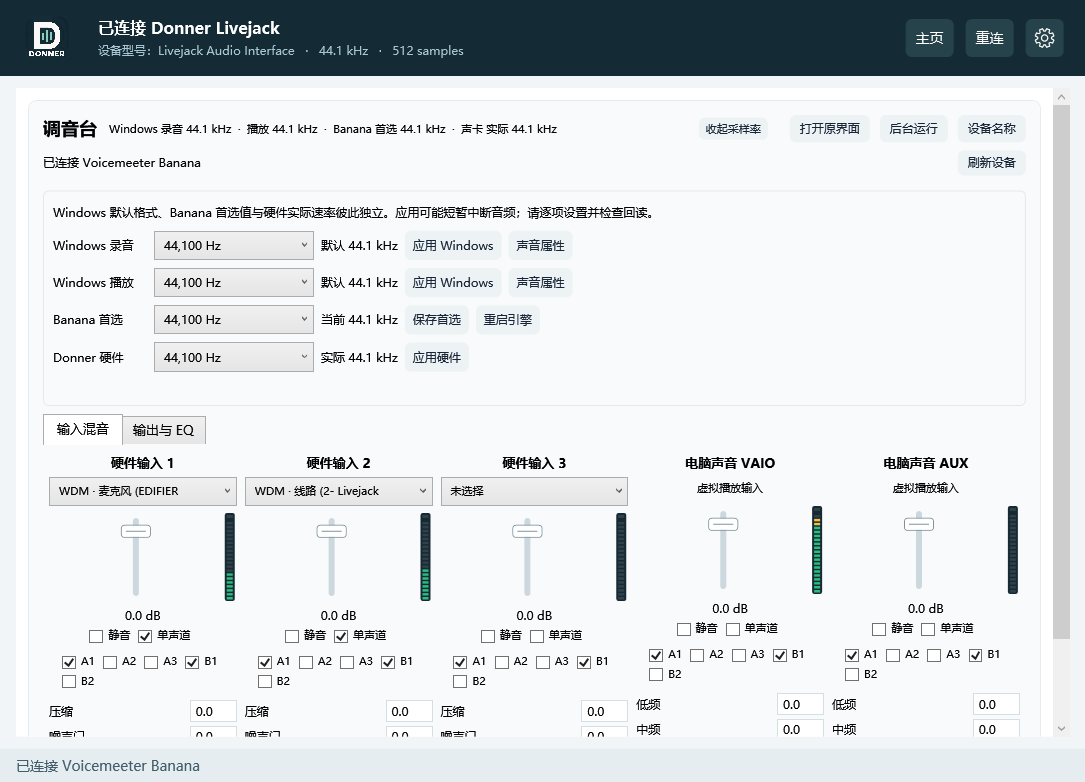
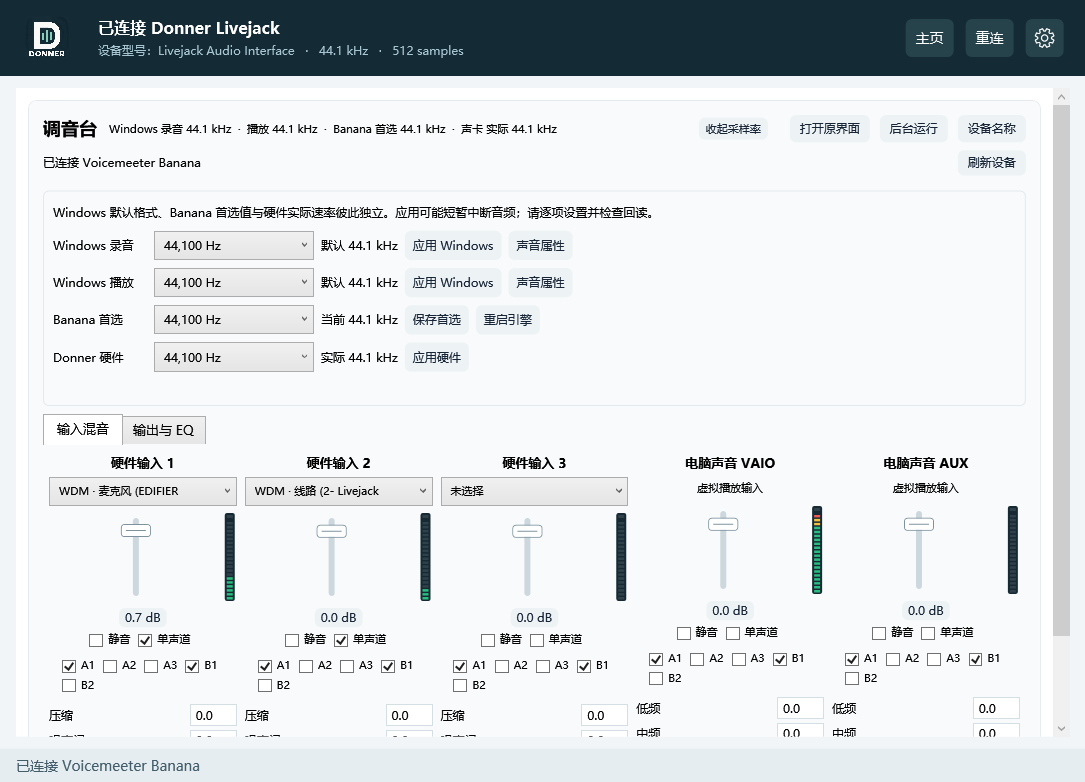
Add fader zero detent and reset gestures in v1.29

diff --git a/src/Donner.Panel/MixerPanel.cs b/src/Donner.Panel/MixerPanel.cs
@@ -76,11 +76,20 @@ internal sealed class MixerPanel:Border,IDisposable
         }
         else box.Children.Add(new TextBlock{Text=input?"虚拟播放输入":"虚拟录音输出",FontSize=11,HorizontalAlignment=HorizontalAlignment.Center,Margin=new Thickness(0,10,0,8)});
         var faderRow=new Grid{Height=94};faderRow.ColumnDefinitions.Add(new());faderRow.ColumnDefinitions.Add(new(){Width=new GridLength(14)});box.Children.Add(faderRow);
-        var slider=new Slider{Orientation=Orientation.Vertical,IsMoveToPointEnabled=true,Minimum=-60,Maximum=12,TickFrequency=.1,SmallChange=.1,LargeChange=1,Height=90,Width=36,Style=(Style)FindResource("ChannelFader")};faderRow.Children.Add(slider);
+        var slider=new Slider{Orientation=Orientation.Vertical,IsMoveToPointEnabled=true,Minimum=-60,Maximum=12,TickFrequency=.1,IsSnapToTickEnabled=true,SmallChange=.1,LargeChange=1,Height=90,Width=36,Style=(Style)FindResource("ChannelFader")};faderRow.Children.Add(slider);
         var meter=new ChannelMeter{Width=10,Height=88,VerticalAlignment=VerticalAlignment.Center};Grid.SetColumn(meter,1);faderRow.Children.Add(meter);
         meters.Add(()=>meter.Peak=client.Level(input,index));
-        var value=new TextBlock{Text="0.0 dB",FontSize=12,HorizontalAlignment=HorizontalAlignment.Center,Margin=new Thickness(0,4,0,4)};box.Children.Add(value);
-        slider.ValueChanged+=(_,_)=>{value.Text=$"{slider.Value:0.0} dB";if(!updating)Queue(prefix+".Gain",(float)slider.Value);};
+        var value=new Button{Content="0.0 dB",Tag=prefix+".Gain.reset",FontSize=12,HorizontalAlignment=HorizontalAlignment.Center,Padding=new Thickness(6,2,6,2),Margin=new Thickness(0,4,0,4),ToolTip="点击数值归零（0 dB 不增不减）；双击推子也可归零。"};box.Children.Add(value);
+        slider.ToolTip="-60 至 +12 dB；靠近 0 dB 自动吸附。双击归零；方向键按 0.1 dB 微调。";
+        void ResetGain(){slider.Focus();slider.Value=0;if(!updating)Queue(prefix+".Gain",0);}
+        value.Click+=(_,_)=>ResetGain();
+        slider.PreviewMouseDoubleClick+=(_,e)=>{if(e.ChangedButton==System.Windows.Input.MouseButton.Left){ResetGain();e.Handled=true;}};
+        slider.ValueChanged+=(_,_)=>
+        {
+            if(!updating&&(slider.IsMouseCaptureWithin||slider.IsMouseOver&&System.Windows.Input.Mouse.LeftButton==System.Windows.Input.MouseButtonState.Pressed))
+            {var snapped=MixerFaderValue.Pointer(slider.Value);if(snapped!=slider.Value)slider.Value=snapped;}
+            value.Content=$"{slider.Value:0.0} dB";if(!updating)Queue(prefix+".Gain",(float)slider.Value);
+        };
         readers.Add(()=>{if(!slider.IsMouseCaptureWithin&&!pending.ContainsKey(prefix+".Gain"))slider.Value=ReadValue(prefix+".Gain");});
         var switches=new WrapPanel{HorizontalAlignment=HorizontalAlignment.Center};box.Children.Add(switches);
         AddCheck(switches,"静音",prefix+".Mute");AddCheck(switches,"单声道",prefix+".Mono");

diff --git a/src/Donner.Panel/MixerSmoke.cs b/src/Donner.Panel/MixerSmoke.cs
@@ -104,9 +104,19 @@ public partial class MainWindow
         if(fake.Values.GetValueOrDefault("Strip[0].Mute")!=1)throw new Exception("调音台静音未写入。");
         var count=fake.Writes.Count;fake.Values["Strip[1].Gain"]=-18;panel.Poll(true);
         if(!ReferenceEquals(fader,Visuals<Slider>(panel).First())||fake.Writes.Count!=count)throw new Exception("调音台刷新重建控件或触发回写。");
+        var reset=Visuals<Button>(panel).First(x=>x.Tag?.ToString()=="Strip[0].Gain.reset");
+        fader.Value=-7;panel.Poll(true);reset.RaiseEvent(new RoutedEventArgs(Button.ClickEvent));panel.Poll(true);
+        if(fader.Value!=0||fake.Values.GetValueOrDefault("Strip[0].Gain")!=0)throw new Exception("点击增益数值未精确归零。");
+        fader.Value=-5;panel.Poll(true);
+        fader.RaiseEvent(new System.Windows.Input.MouseButtonEventArgs(System.Windows.Input.Mouse.PrimaryDevice,Environment.TickCount,System.Windows.Input.MouseButton.Left){RoutedEvent=Control.PreviewMouseDoubleClickEvent});panel.Poll(true);
+        if(fader.Value!=0||fake.Values.GetValueOrDefault("Strip[0].Gain")!=0)throw new Exception("双击推子未精确归零。");
+        fader.Value=.1;panel.Poll(true);if(Math.Abs(fake.Values.GetValueOrDefault("Strip[0].Gain")-.1f)>.001)throw new Exception("零点吸附破坏了非鼠标微调。");
         SaveImage("mixer-inputs.png");
         var tabs=Visuals<TabControl>(panel).Single();tabs.SelectedIndex=1;
         await Dispatcher.InvokeAsync(()=>{},DispatcherPriority.ApplicationIdle);panel.Poll(true);
+        var outputReset=Visuals<Button>(panel).First(x=>x.Tag?.ToString()=="Bus[0].Gain.reset");
+        var outputFader=Visuals<Slider>(panel).First();outputFader.Value=6;panel.Poll(true);outputReset.RaiseEvent(new RoutedEventArgs(Button.ClickEvent));panel.Poll(true);
+        if(outputFader.Value!=0||fake.Values.GetValueOrDefault("Bus[0].Gain")!=0||Math.Abs(fake.Values.GetValueOrDefault("Strip[0].Gain")-.1f)>.001)throw new Exception("输出归零作用到了错误的通道。");
         fake.Values["Bus[0].Mono"]=2;panel.Poll(true);
         if(Visuals<CheckBox>(panel).First(x=>x.Content?.ToString()=="单声道").IsChecked==true)throw new Exception("立体声反转被显示成了单声道。");
         var eqBusCombo=Visuals<ComboBox>(panel).First(x=>x.Items.Count==5&&x.Items[0]?.ToString()=="A1 监听");eqBusCombo.SelectedIndex=3;panel.Poll(true);

diff --git a/src/Donner.Panel/MainWindow.xaml.cs b/src/Donner.Panel/MainWindow.xaml.cs
@@ -53,7 +53,7 @@ public partial class MainWindow : Window
         StreamModeCombo.ItemsSource=new[]{new DriverOption(1,"按需开启"),new DriverOption(2,"持续开启")};
         OutputFormatCombo.SelectionChanged+=(_,_)=>{if(!rendering&&OutputFormatCombo.SelectedItem is DriverOption option)selectedFormat=option.Value;};
         StreamModeCombo.SelectionChanged+=(_,_)=>{if(!rendering&&StreamModeCombo.SelectedItem is DriverOption option)selectedStreamMode=option.Value;};
-        Title="Donner 中文控制面板 · v1.28 · topsai (范斯特洛夫斯基)";
+        Title="Donner 中文控制面板 · v1.29 · topsai (范斯特洛夫斯基)";
         AboutVersion.Text="版本 "+typeof(MainWindow).Assembly.GetName().Version?.ToString(3);
         var smoke=Array.IndexOf(args,"--smoke");
         smokeDirectory=smoke>=0 && smoke+1<args.Length?Path.GetFullPath(args[smoke+1]):null;
@@ -248,7 +248,7 @@ public partial class MainWindow : Window
             try
             {
                 Directory.CreateDirectory(reconnectCheckDirectory);
-                File.WriteAllText(Path.Combine(reconnectCheckDirectory,"state.json"),JsonSerializer.Serialize(new {Version="1.28",ProcessId=Environment.ProcessId,Updated=DateTimeOffset.Now,d.Connected,d.Demo,d.Status,d.SampleRate,d.BufferSize,DeviceChanges=deviceChanges,NotificationRegistered=notifications is not null},new JsonSerializerOptions {WriteIndented=true}));
+                File.WriteAllText(Path.Combine(reconnectCheckDirectory,"state.json"),JsonSerializer.Serialize(new {Version="1.29",ProcessId=Environment.ProcessId,Updated=DateTimeOffset.Now,d.Connected,d.Demo,d.Status,d.SampleRate,d.BufferSize,DeviceChanges=deviceChanges,NotificationRegistered=notifications is not null},new JsonSerializerOptions {WriteIndented=true}));
             }
             catch(IOException){}
         }

diff --git a/tests/Donner.Tests/Program.cs b/tests/Donner.Tests/Program.cs
@@ -283,6 +283,13 @@ Test("主页调音台输出跟随实际声卡总线且保持左右声道",()=>
     MixerRules.Validate("Option.sr",44100);MixerRules.Validate("Command.Restart",1);
     Reject(()=>MixerRules.Validate("Option.sr",45000));Reject(()=>MixerRules.Validate("Command.Restart",0));
 });
+Test("调音台推子可吸附归零且保留键盘微调",()=>
+{
+    Check(MixerFaderValue.Pointer(-.7)==0&&MixerFaderValue.Pointer(.7)==0,"鼠标经过零点未吸附");
+    Check(MixerFaderValue.Pointer(-12.36)==-12.4&&MixerFaderValue.Pointer(3.26)==3.3,"拖动未按0.1dB量化");
+    Check(MixerFaderValue.Pointer(-100)==-60&&MixerFaderValue.Pointer(100)==12,"推子越界");
+    Reject(()=>MixerFaderValue.Pointer(double.NaN));
+});
 Console.WriteLine($"热插拔结果：{passed} 通过，{failures} 失败");
 return failures==0?0:1;
 

diff --git a/src/Donner.Core/MixerFaderValue.cs b/src/Donner.Core/MixerFaderValue.cs
@@ -1,0 +1,11 @@
+namespace Donner.Core;
+
+public static class MixerFaderValue
+{
+    public static double Pointer(double value)
+    {
+        if(!double.IsFinite(value))throw new InvalidDataException("推子增益无效。");
+        value=Math.Clamp(value,-60,12);
+        return Math.Abs(value)<=1?0:Math.Round(value,1,MidpointRounding.AwayFromZero);
+    }
+}

diff --git a/docs/superpowers/plans/2026-11-03-mixer-fader-zero.md b/docs/superpowers/plans/2026-11-03-mixer-fader-zero.md
@@ -1,0 +1,3 @@
+# Mixer fader zero
+
+Official Banana fader range -60 to+12dB is intentional. A90px linear72dB fader cannot reliably hit exact0 by pointer, and TickFrequency alone did not enable snapping. Keep the range and external readback, add0.1dB tick snapping, pointer-only unity detent within1dB, doubleclick fader reset and click numeric gain reset. Keyboard0.1dB steps remain available nearunity. Test quantization/edgecases and input/output UI reset with fake backend; no real gain writes during verification. Publishv1.29 with refreshed screenshots/docs.
